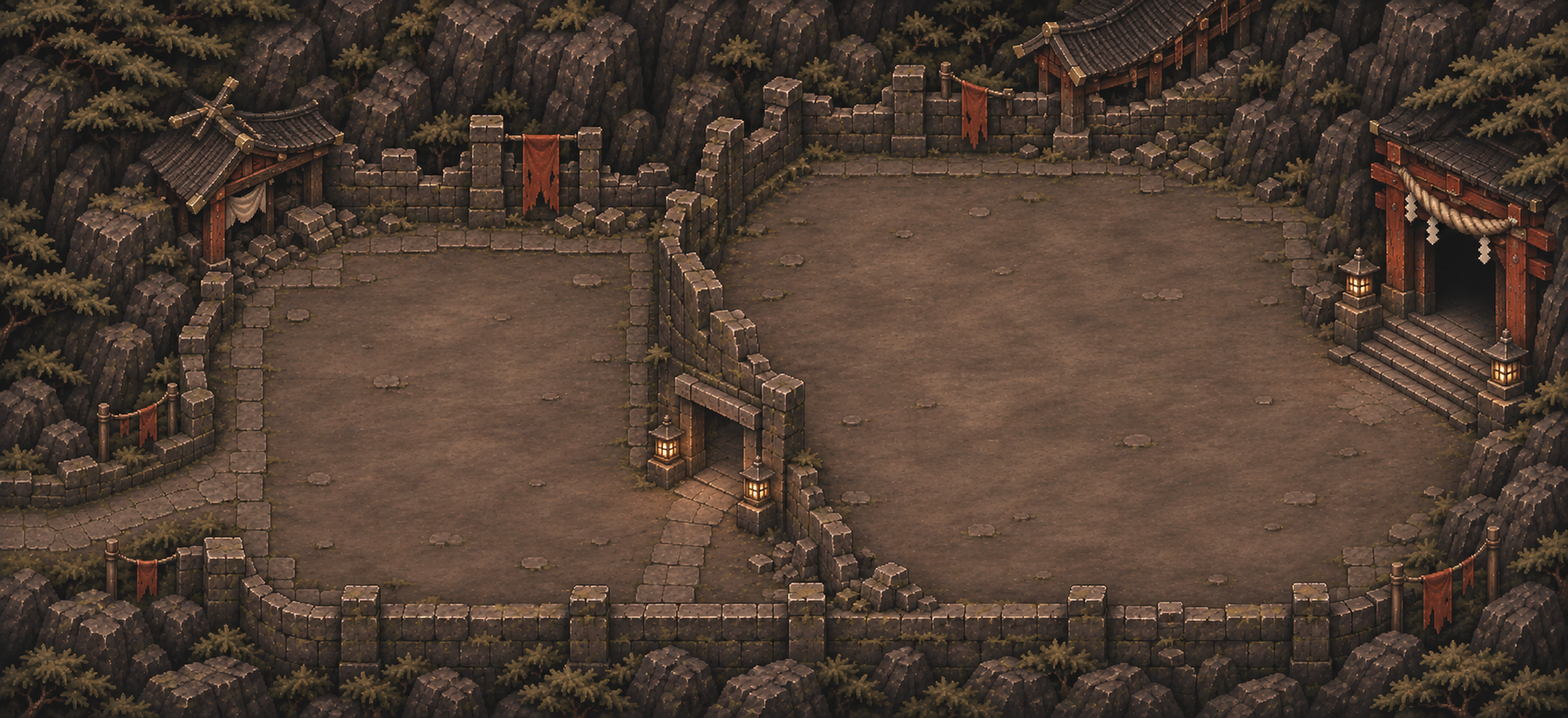
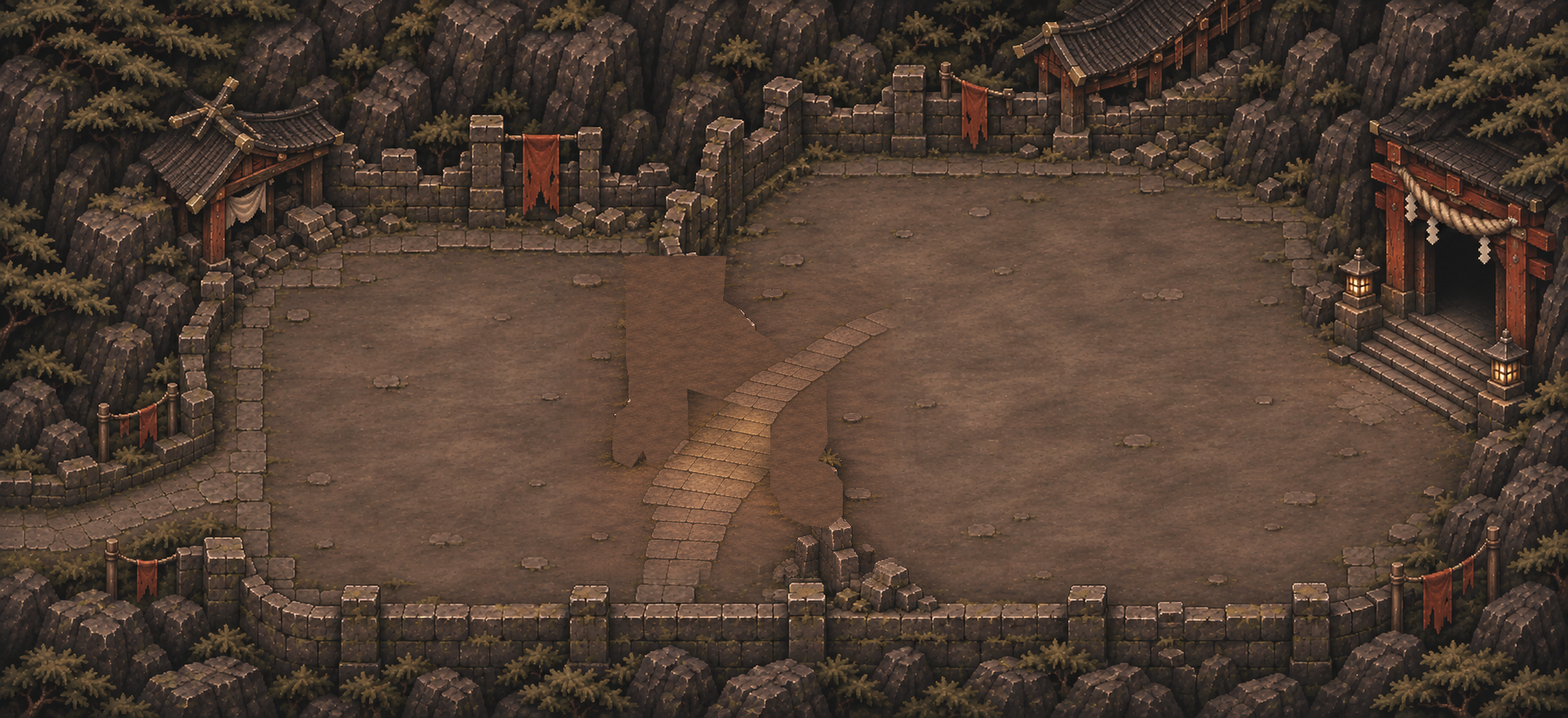
외성 중앙 문 레이어 분리와 통과 판정 개선

Changed region(s): [[0.375, 0.34, 0.5625, 0.8036]]

diff --git a/outer_fortress.py b/outer_fortress.py
@@ -8,20 +8,26 @@ SIZE = 2400, 1100
 ENTRY = 172, 300  # World coordinates at the player's feet.
 RETURN_AREA = BoundingBox(25, 258, 110, 315)
 ENEMY_STARTS = ((771, 510), (1590, 532), (1870, 383))
+# Layer image positions are measured from the top-left of the map.
+GATE_LINTEL = ('stage_01_gate_foreground.png', 950, 392)
+GATE_PIERS = (
+    ('stage_01_gate_left_pier.png', 927, 559, 393),
+    ('stage_01_gate_right_pier.png', 1173, 569, 319),
+)
 
 # Trace the edges at half size for readability. Points follow the art from the
 # left path, through the gate in the dividing wall, around the right court.
 WALKABLE = tuple((x * 2, y * 2) for x, y in (
     (0, 389), (44, 383), (123, 358), (166, 328), (165, 272),
     (179, 226), (204, 205), (257, 187), (477, 183), (485, 199),
-    (489, 333), (496, 351), (517, 366),
-    (543, 346), (566, 324), (594, 303),
-    (589, 273), (572, 230), (560, 181), (580, 156), (618, 138),
+    (489, 329), (477, 347), (489, 364), (510, 368),
+    (522, 359), (523, 340), (525, 319), (530, 301), (536, 284),
+    (544, 267), (555, 251), (568, 232), (560, 181), (580, 156), (618, 138),
     (897, 132), (951, 142), (982, 173), (1001, 234), (1017, 266),
     (1056, 289), (1127, 322), (1101, 374), (1075, 401), (1016, 429),
     (967, 447), (813, 452), (704, 453), (661, 439),
-    (633, 409), (615, 376), (605, 353), (590, 336),
-    (568, 351), (549, 368), (553, 389), (568, 420), (582, 449),
+    (638, 420), (629, 399), (621, 383), (616, 369), (582, 355),
+    (583, 374), (573, 390), (568, 409), (582, 449),
     (531, 453), (239, 450), (208, 432), (171, 407), (116, 408),
     (56, 423), (0, 424),
 ))
@@ -44,14 +50,11 @@ class Background:
                              camera.width / 2, camera.height / 2)
 
 
-class GateForeground:
-    # The gate lintel and the adjacent wall hide sprites passing beneath them.
-    IMAGE_LEFT, IMAGE_TOP = 1030, 470
-
-    def __init__(self):
-        self.image = load_image('asset/maps/stage_01_gate_foreground.png')
+class GateWallSprite:
+    def __init__(self, name, left, top):
+        self.image = load_image(f'asset/maps/{name}')
+        self.x = left + self.image.w / 2
+        self.y = SIZE[1] - top - self.image.h / 2
 
     def draw(self, camera):
-        x = self.IMAGE_LEFT + self.image.w / 2
-        y = SIZE[1] - self.IMAGE_TOP - self.image.h / 2
-        self.image.draw(*camera.project(x, y))
+        self.image.draw(*camera.project(self.x, self.y))

diff --git a/main.py b/main.py
@@ -115,7 +115,11 @@ def create_outer_fortress_scene(player, dice_ui):
     for enemy in enemies:
         world.add(enemy, game_world.OBJECTS, foot_y=lambda enemy=enemy: enemy.foot_y)
     world.add(player, game_world.OBJECTS, foot_y=lambda: player.y - player.FOOT_OFFSET_Y)
-    world.add(outer_fortress.GateForeground(), game_world.FOREGROUND)
+    for name, left, top, foot_y in outer_fortress.GATE_PIERS:
+        world.add(outer_fortress.GateWallSprite(name, left, top), game_world.OBJECTS,
+                  foot_y=lambda y=foot_y: y)
+    lintel = outer_fortress.GateWallSprite(*outer_fortress.GATE_LINTEL)
+    world.add(lintel, game_world.FOREGROUND)
     add_hud(world, player, dice_ui)
     world.add(door, game_world.UI)
     return Scene(world, door, outer_fortress.ENTRY, player.RIGHT, enemies,
